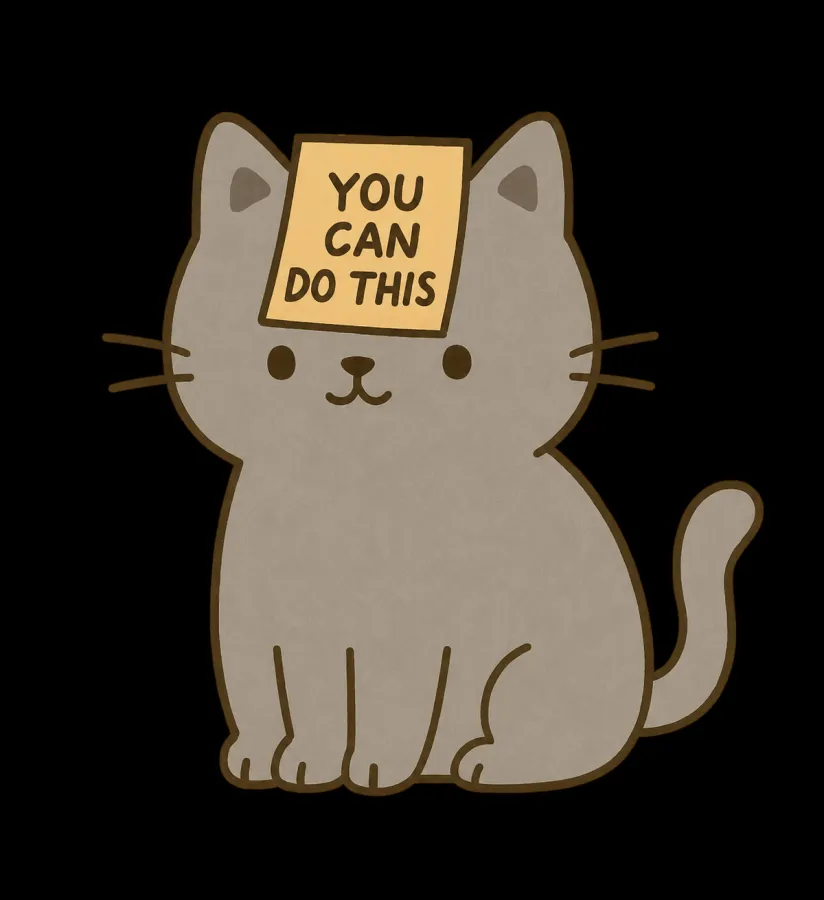
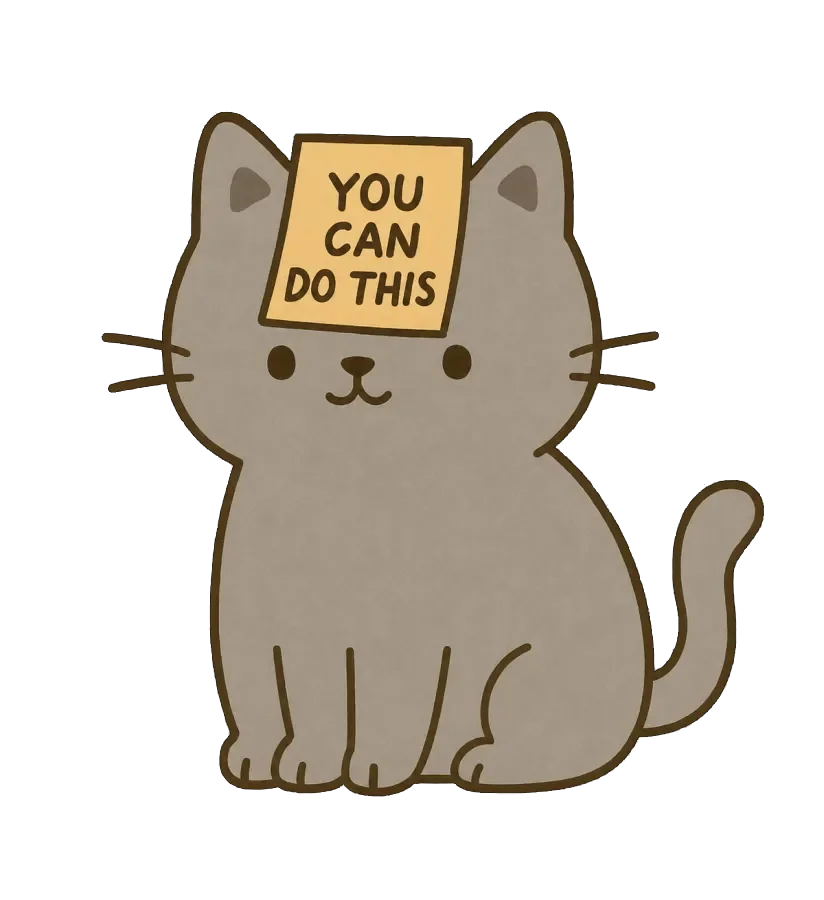
The Recommended box picture whole and see-through; later meals numbered

diff --git a/apps/mobile/src/screens/food/MealIdeas.tsx b/apps/mobile/src/screens/food/MealIdeas.tsx
@@ -5,7 +5,7 @@ import { mealIdeasResponseSchema, missingText, type MealIdea, type SetupScreenId
 import { Button } from "../../look/Button";
 import { Card } from "../../look/Card";
 import { Chip } from "../../look/Chip";
-import { boxShade, colours, sizes } from "../../look/colours";
+import { colours, sizes } from "../../look/colours";
 import { Icon } from "../../look/Icon";
 import { pictures } from "../../look/pictures";
 import { Sheet } from "../../look/Sheet";
@@ -177,7 +177,7 @@ export function MealIdeas({ onMore, onAnswered }: MealIdeasProps) {
         >
           {rest.map((meal, at) => (
             <View key={String(at)} style={styles.later}>
-              <Txt kind="strong">About {count(meal.kcalTarget)} kcal</Txt>
+              <Txt kind="strong">Meal {String(at + 2)} · about {count(meal.kcalTarget)} kcal</Txt>
               {meal.ideas.map(row)}
             </View>
           ))}
@@ -192,10 +192,7 @@ export function MealIdeas({ onMore, onAnswered }: MealIdeasProps) {
     <>
       <Card style={styles.card} testID={onDashboard ? "recommended-box" : "meal-ideas-box"}>
         {onDashboard ? (
-          <>
-            <Image source={pictures.recommended} resizeMode="cover" style={styles.picture} accessible={false} />
-            <View style={[StyleSheet.absoluteFill, styles.shade]} />
-          </>
+          <Image source={pictures.recommended} resizeMode="contain" style={styles.picture} accessible={false} />
         ) : null}
         <View style={styles.titleRow}>
           <Icon name={onDashboard ? "target" : "apple"} size={16} colour="orange" />
@@ -279,6 +276,6 @@ const styles = StyleSheet.create({
   idea: { flexDirection: "row", alignItems: "center", gap: 10, paddingTop: 10, borderTopWidth: 1, borderTopColor: colours.line },
   numbers: { fontFamily: fonts.semibold, marginTop: 2 },
   later: { gap: 8, marginBottom: sizes.edge },
-  picture: { position: "absolute", top: 0, left: 0, width: "120%", height: "100%", opacity: 0.6 },
-  shade: { experimental_backgroundImage: boxShade },
+  // Whole, in the corner beside the title and the option row.
+  picture: { position: "absolute", top: 8, right: 10, width: 84, height: 92 },
 });
